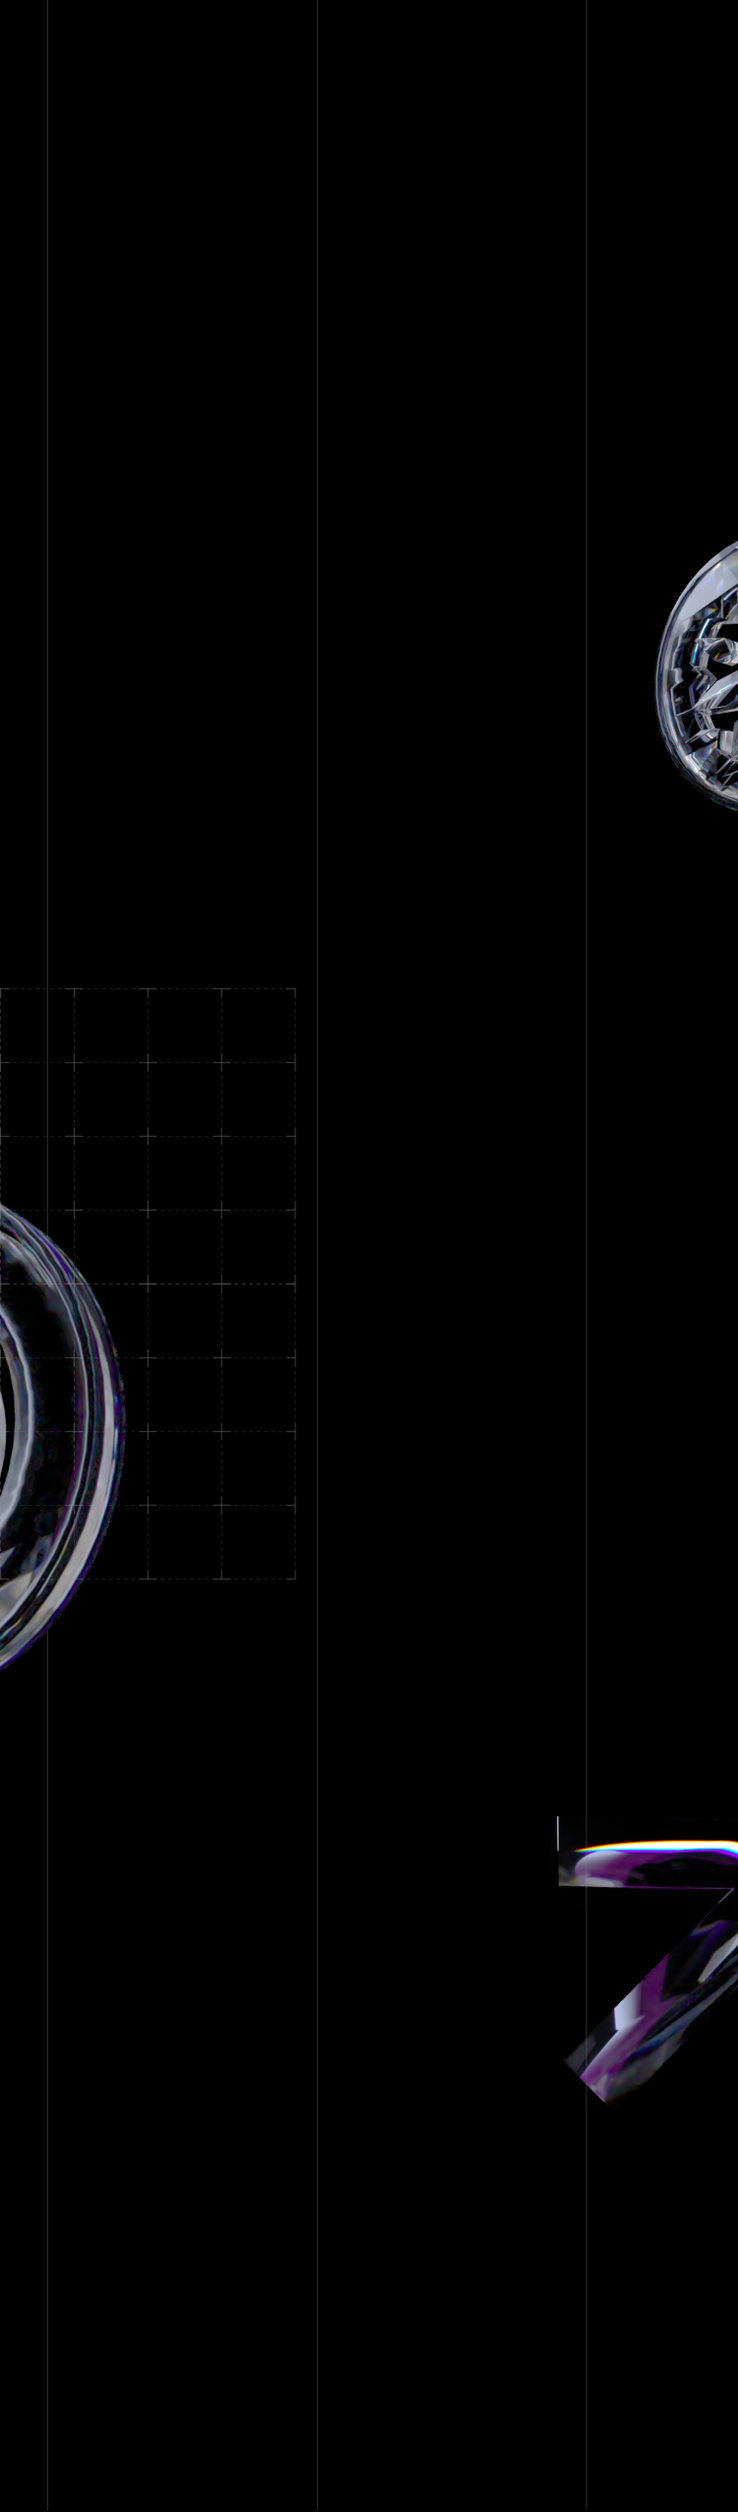
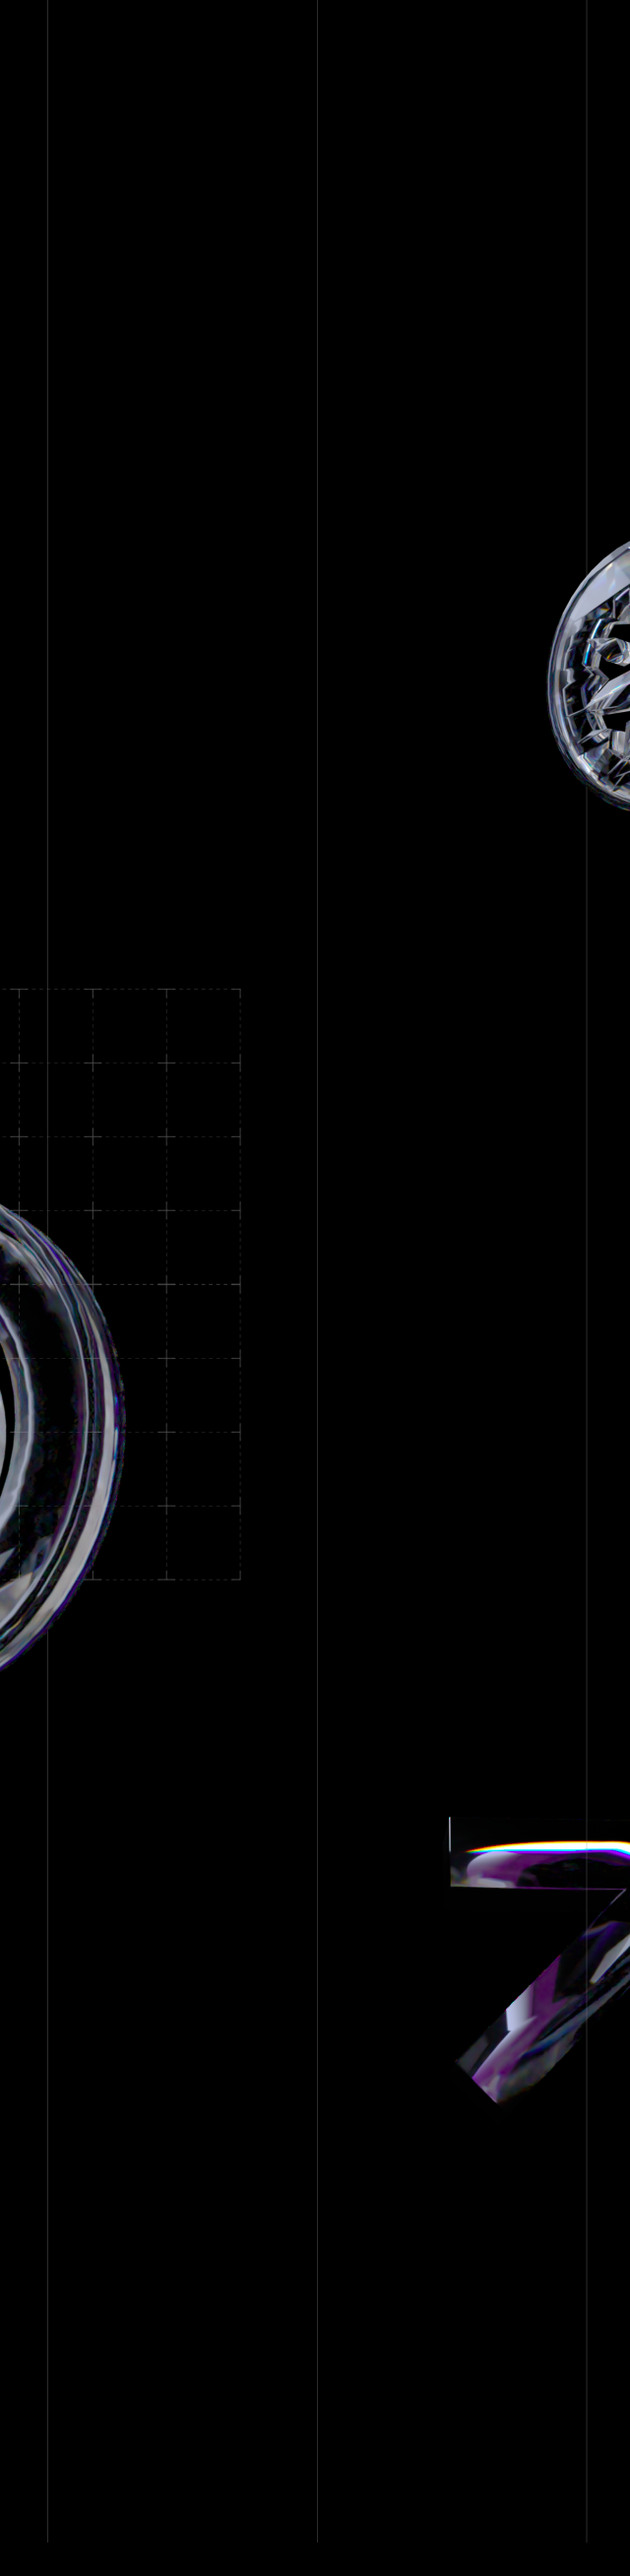
updated bg-image and bg positions

Changed region(s): [[0.0, 0.3715, 0.2188, 0.681], [0.7188, 0.712, 1.0, 0.8358], [0.8438, 0.1857, 1.0, 0.3405]]

diff --git a/apps/web/src/layouts/Base.tsx b/apps/web/src/layouts/Base.tsx
@@ -82,15 +82,13 @@ function Base({ children }: PropsWithChildren<any>): JSX.Element | null {
         <ConnectKitProvider>
           {mounted && (
             <ThemeProvider theme={initialTheme}>
-              <div className="relative w-full h-full bg-dark-00">
-                <div className="relative z-[1]">
-                  <Header />
-                  <main className={clsx("flex-grow relative z-[1]")}>
-                    {children}
-                  </main>
-                  <Footer />
-                </div>
-                <div className="w-full h-full absolute z-auto top-0 left-0 bg-no-repeat mix-blend-screen bg-cover bg-center bg-local bg-clip-padding bg-origin-padding lg:bg-[url('/background/desktop.png')] md:bg-[url('/background/tablet.png')] bg-[url('/background/mobile.png')]" />
+              <div className="relative">
+                <Header />
+                <main className={clsx("flex-grow relative z-[1]")}>
+                  {children}
+                </main>
+                <div className="w-full h-full absolute z-auto top-0 left-0 bg-no-repeat mix-blend-screen bg-cover bg-top lg:bg-center bg-local bg-clip-padding bg-origin-padding bg-[url('/background/mobile.png')] md:bg-[url('/background/tablet.png')] lg:bg-[url('/background/desktop.png')]" />
+                <Footer />
               </div>
             </ThemeProvider>
           )}

diff --git a/apps/web/src/components/Header.tsx b/apps/web/src/components/Header.tsx
@@ -29,7 +29,7 @@ export default function Header(): JSX.Element {
   const [wallet, setWallet] = useState<Wallet>();
 
   return (
-    <div className="flex items-center justify-between bg-dark-00 px-5 pt-8 pb-6 sm:px-12 sm:py-6 lg:px-[120px] lg:pt-10 lg:pb-12">
+    <div className="flex z-[1] relative items-center justify-between bg-dark-00 px-5 pt-8 pb-6 sm:px-12 sm:py-6 lg:px-[120px] lg:pt-10 lg:pb-12">
       <Link href="/">
         <div className="relative cursor-pointer w-[140px] h-[32px] lg:w-[264px] lg:h-[60px]">
           <Image

diff --git a/apps/web/src/components/Footer.tsx b/apps/web/src/components/Footer.tsx
@@ -31,7 +31,7 @@ const SocialItems = [
 
 export default function Footer() {
   return (
-    <footer className="w-full relative pb-8 md:pb-12 pt-4 md:pt-3 bg-dark-00 border-t md:border-t-0 border-dark-300">
+    <footer className="w-full z-[1] relative pb-8 md:pb-12 pt-4 md:pt-3 bg-dark-00 border-t md:border-t-0 border-dark-300">
       <Container className="px-5 md:px-12 lg:px-[120px]">
         <div className="flex flex-row justify-between items-center">
           <div className="flex flex-col md:flex-row">
